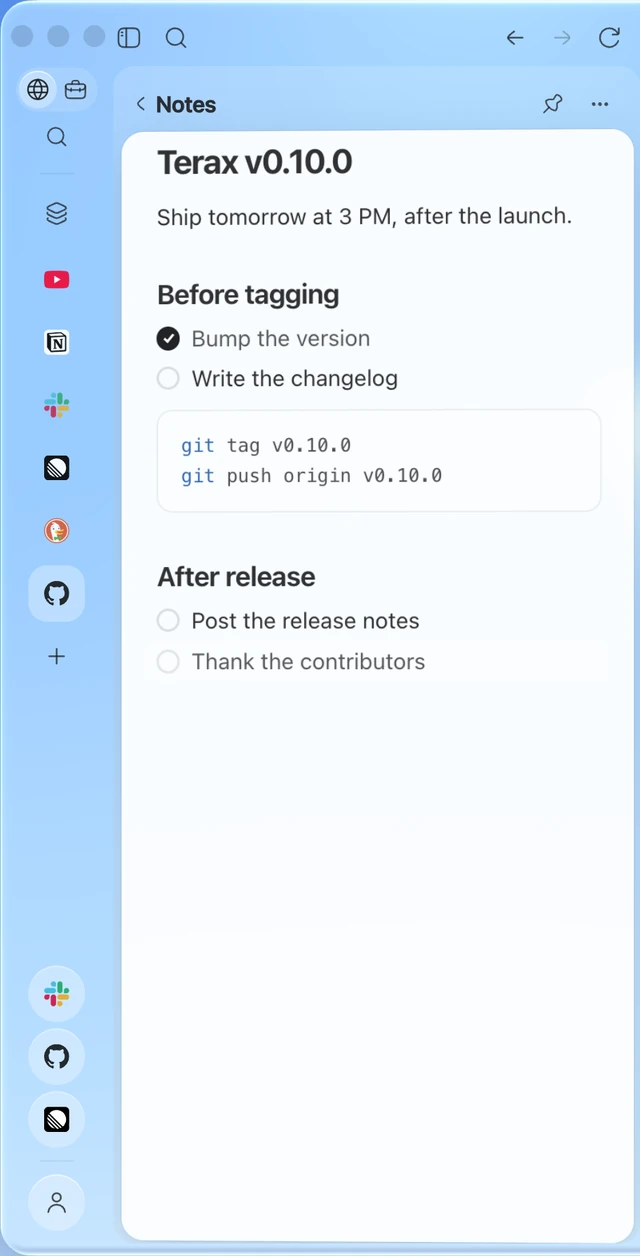
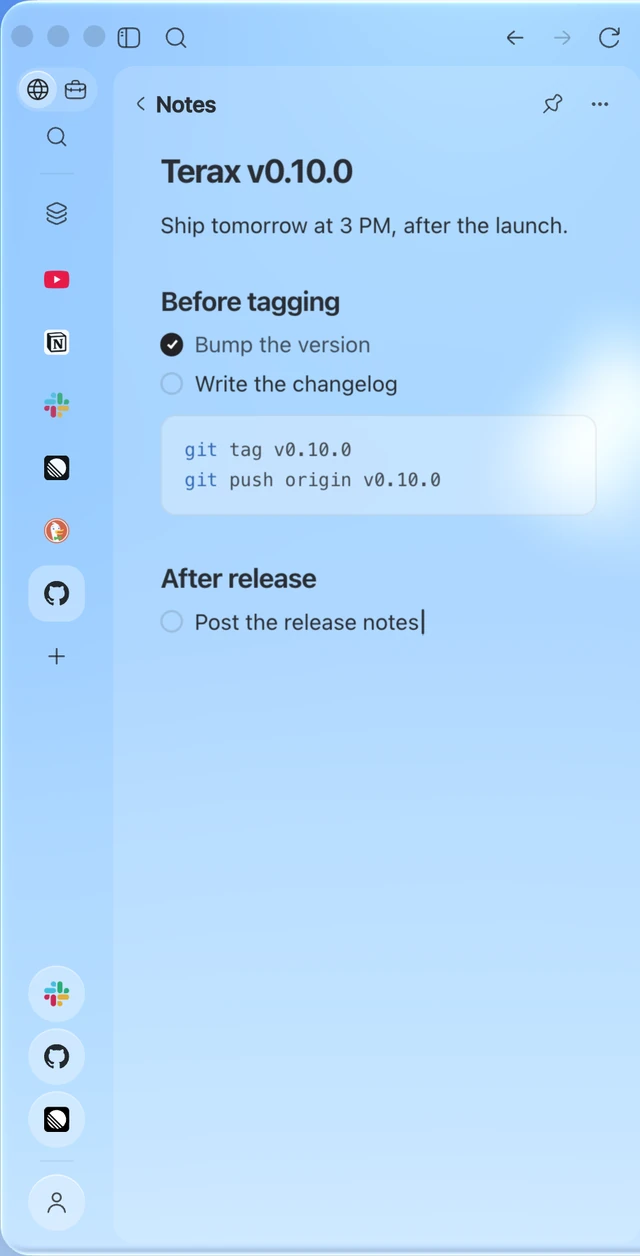
docs(readme): Notes at rest on the glass, and the X badge reads x.com

diff --git a/docs/readme/README.hi.md b/docs/readme/README.hi.md
@@ -10,7 +10,7 @@
     <img src="https://img.shields.io/badge/platform-macOS%20%7C%20Windows-lightgrey" alt="प्लैटफ़ॉर्म: macOS और Windows" />
     <a href="https://discord.gg/tyveTUyEp7"><img src="https://img.shields.io/badge/Discord-5865F2?logo=discord&logoColor=white" alt="Discord" /></a>
     <a href="https://www.youtube.com/@crynta"><img src="https://img.shields.io/badge/YouTube-FF0000?logo=youtube&logoColor=white" alt="YouTube" /></a>
-    <a href="https://x.com/CryntaDev"><img src="https://img.shields.io/badge/@CryntaDev-000000?logo=x&logoColor=white" alt="X: @CryntaDev" /></a>
+    <a href="https://x.com/CryntaDev"><img src="https://img.shields.io/badge/x.com-000000?logo=x&logoColor=white" alt="X: @CryntaDev" /></a>
   </p>
 
   <p>

diff --git a/docs/readme/README.ja.md b/docs/readme/README.ja.md
@@ -10,7 +10,7 @@
     <img src="https://img.shields.io/badge/platform-macOS%20%7C%20Windows-lightgrey" alt="対応プラットフォーム: macOS と Windows" />
     <a href="https://discord.gg/tyveTUyEp7"><img src="https://img.shields.io/badge/Discord-5865F2?logo=discord&logoColor=white" alt="Discord" /></a>
     <a href="https://www.youtube.com/@crynta"><img src="https://img.shields.io/badge/YouTube-FF0000?logo=youtube&logoColor=white" alt="YouTube" /></a>
-    <a href="https://x.com/CryntaDev"><img src="https://img.shields.io/badge/@CryntaDev-000000?logo=x&logoColor=white" alt="X: @CryntaDev" /></a>
+    <a href="https://x.com/CryntaDev"><img src="https://img.shields.io/badge/x.com-000000?logo=x&logoColor=white" alt="X: @CryntaDev" /></a>
   </p>
 
   <p>

diff --git a/docs/readme/README.ru.md b/docs/readme/README.ru.md
@@ -10,7 +10,7 @@
     <img src="https://img.shields.io/badge/platform-macOS%20%7C%20Windows-lightgrey" alt="Платформы: macOS и Windows" />
     <a href="https://discord.gg/tyveTUyEp7"><img src="https://img.shields.io/badge/Discord-5865F2?logo=discord&logoColor=white" alt="Discord" /></a>
     <a href="https://www.youtube.com/@crynta"><img src="https://img.shields.io/badge/YouTube-FF0000?logo=youtube&logoColor=white" alt="YouTube" /></a>
-    <a href="https://x.com/CryntaDev"><img src="https://img.shields.io/badge/@CryntaDev-000000?logo=x&logoColor=white" alt="X: @CryntaDev" /></a>
+    <a href="https://x.com/CryntaDev"><img src="https://img.shields.io/badge/x.com-000000?logo=x&logoColor=white" alt="X: @CryntaDev" /></a>
   </p>
 
   <p>

diff --git a/docs/readme/README.ko.md b/docs/readme/README.ko.md
@@ -10,7 +10,7 @@
     <img src="https://img.shields.io/badge/platform-macOS%20%7C%20Windows-lightgrey" alt="지원 플랫폼: macOS 및 Windows" />
     <a href="https://discord.gg/tyveTUyEp7"><img src="https://img.shields.io/badge/Discord-5865F2?logo=discord&logoColor=white" alt="Discord" /></a>
     <a href="https://www.youtube.com/@crynta"><img src="https://img.shields.io/badge/YouTube-FF0000?logo=youtube&logoColor=white" alt="YouTube" /></a>
-    <a href="https://x.com/CryntaDev"><img src="https://img.shields.io/badge/@CryntaDev-000000?logo=x&logoColor=white" alt="X: @CryntaDev" /></a>
+    <a href="https://x.com/CryntaDev"><img src="https://img.shields.io/badge/x.com-000000?logo=x&logoColor=white" alt="X: @CryntaDev" /></a>
   </p>
 
   <p>

diff --git a/docs/readme/README.zh-CN.md b/docs/readme/README.zh-CN.md
@@ -10,7 +10,7 @@
     <img src="https://img.shields.io/badge/platform-macOS%20%7C%20Windows-lightgrey" alt="支持平台：macOS 和 Windows" />
     <a href="https://discord.gg/tyveTUyEp7"><img src="https://img.shields.io/badge/Discord-5865F2?logo=discord&logoColor=white" alt="Discord" /></a>
     <a href="https://www.youtube.com/@crynta"><img src="https://img.shields.io/badge/YouTube-FF0000?logo=youtube&logoColor=white" alt="YouTube" /></a>
-    <a href="https://x.com/CryntaDev"><img src="https://img.shields.io/badge/@CryntaDev-000000?logo=x&logoColor=white" alt="X: @CryntaDev" /></a>
+    <a href="https://x.com/CryntaDev"><img src="https://img.shields.io/badge/x.com-000000?logo=x&logoColor=white" alt="X: @CryntaDev" /></a>
   </p>
 
   <p>

diff --git a/docs/readme/README.de.md b/docs/readme/README.de.md
@@ -10,7 +10,7 @@
     <img src="https://img.shields.io/badge/platform-macOS%20%7C%20Windows-lightgrey" alt="Plattformen: macOS und Windows" />
     <a href="https://discord.gg/tyveTUyEp7"><img src="https://img.shields.io/badge/Discord-5865F2?logo=discord&logoColor=white" alt="Discord" /></a>
     <a href="https://www.youtube.com/@crynta"><img src="https://img.shields.io/badge/YouTube-FF0000?logo=youtube&logoColor=white" alt="YouTube" /></a>
-    <a href="https://x.com/CryntaDev"><img src="https://img.shields.io/badge/@CryntaDev-000000?logo=x&logoColor=white" alt="X: @CryntaDev" /></a>
+    <a href="https://x.com/CryntaDev"><img src="https://img.shields.io/badge/x.com-000000?logo=x&logoColor=white" alt="X: @CryntaDev" /></a>
   </p>
 
   <p>

diff --git a/docs/readme/README.fr.md b/docs/readme/README.fr.md
@@ -10,7 +10,7 @@
     <img src="https://img.shields.io/badge/platform-macOS%20%7C%20Windows-lightgrey" alt="Plateformes : macOS et Windows" />
     <a href="https://discord.gg/tyveTUyEp7"><img src="https://img.shields.io/badge/Discord-5865F2?logo=discord&logoColor=white" alt="Discord" /></a>
     <a href="https://www.youtube.com/@crynta"><img src="https://img.shields.io/badge/YouTube-FF0000?logo=youtube&logoColor=white" alt="YouTube" /></a>
-    <a href="https://x.com/CryntaDev"><img src="https://img.shields.io/badge/@CryntaDev-000000?logo=x&logoColor=white" alt="X: @CryntaDev" /></a>
+    <a href="https://x.com/CryntaDev"><img src="https://img.shields.io/badge/x.com-000000?logo=x&logoColor=white" alt="X: @CryntaDev" /></a>
   </p>
 
   <p>

diff --git a/README.md b/README.md
@@ -10,7 +10,7 @@
     <img src="https://img.shields.io/badge/platform-macOS%20%7C%20Windows-lightgrey" alt="Platforms: macOS and Windows" />
     <a href="https://discord.gg/tyveTUyEp7"><img src="https://img.shields.io/badge/Discord-5865F2?logo=discord&logoColor=white" alt="Discord" /></a>
     <a href="https://www.youtube.com/@crynta"><img src="https://img.shields.io/badge/YouTube-FF0000?logo=youtube&logoColor=white" alt="YouTube" /></a>
-    <a href="https://x.com/CryntaDev"><img src="https://img.shields.io/badge/@CryntaDev-000000?logo=x&logoColor=white" alt="X: @CryntaDev" /></a>
+    <a href="https://x.com/CryntaDev"><img src="https://img.shields.io/badge/x.com-000000?logo=x&logoColor=white" alt="X: @CryntaDev" /></a>
   </p>
 
   <p>

diff --git a/docs/readme/README.es.md b/docs/readme/README.es.md
@@ -10,7 +10,7 @@
     <img src="https://img.shields.io/badge/platform-macOS%20%7C%20Windows-lightgrey" alt="Plataformas: macOS y Windows" />
     <a href="https://discord.gg/tyveTUyEp7"><img src="https://img.shields.io/badge/Discord-5865F2?logo=discord&logoColor=white" alt="Discord" /></a>
     <a href="https://www.youtube.com/@crynta"><img src="https://img.shields.io/badge/YouTube-FF0000?logo=youtube&logoColor=white" alt="YouTube" /></a>
-    <a href="https://x.com/CryntaDev"><img src="https://img.shields.io/badge/@CryntaDev-000000?logo=x&logoColor=white" alt="X: @CryntaDev" /></a>
+    <a href="https://x.com/CryntaDev"><img src="https://img.shields.io/badge/x.com-000000?logo=x&logoColor=white" alt="X: @CryntaDev" /></a>
   </p>
 
   <p>

diff --git a/docs/readme/README.pt-BR.md b/docs/readme/README.pt-BR.md
@@ -10,7 +10,7 @@
     <img src="https://img.shields.io/badge/platform-macOS%20%7C%20Windows-lightgrey" alt="Plataformas: macOS e Windows" />
     <a href="https://discord.gg/tyveTUyEp7"><img src="https://img.shields.io/badge/Discord-5865F2?logo=discord&logoColor=white" alt="Discord" /></a>
     <a href="https://www.youtube.com/@crynta"><img src="https://img.shields.io/badge/YouTube-FF0000?logo=youtube&logoColor=white" alt="YouTube" /></a>
-    <a href="https://x.com/CryntaDev"><img src="https://img.shields.io/badge/@CryntaDev-000000?logo=x&logoColor=white" alt="X: @CryntaDev" /></a>
+    <a href="https://x.com/CryntaDev"><img src="https://img.shields.io/badge/x.com-000000?logo=x&logoColor=white" alt="X: @CryntaDev" /></a>
   </p>
 
   <p>

diff --git a/docs/readme/README.id.md b/docs/readme/README.id.md
@@ -10,7 +10,7 @@
     <img src="https://img.shields.io/badge/platform-macOS%20%7C%20Windows-lightgrey" alt="Platform: macOS dan Windows" />
     <a href="https://discord.gg/tyveTUyEp7"><img src="https://img.shields.io/badge/Discord-5865F2?logo=discord&logoColor=white" alt="Discord" /></a>
     <a href="https://www.youtube.com/@crynta"><img src="https://img.shields.io/badge/YouTube-FF0000?logo=youtube&logoColor=white" alt="YouTube" /></a>
-    <a href="https://x.com/CryntaDev"><img src="https://img.shields.io/badge/@CryntaDev-000000?logo=x&logoColor=white" alt="X: @CryntaDev" /></a>
+    <a href="https://x.com/CryntaDev"><img src="https://img.shields.io/badge/x.com-000000?logo=x&logoColor=white" alt="X: @CryntaDev" /></a>
   </p>
 
   <p>

diff --git a/docs/readme/README.pl.md b/docs/readme/README.pl.md
@@ -10,7 +10,7 @@
     <img src="https://img.shields.io/badge/platform-macOS%20%7C%20Windows-lightgrey" alt="Platformy: macOS i Windows" />
     <a href="https://discord.gg/tyveTUyEp7"><img src="https://img.shields.io/badge/Discord-5865F2?logo=discord&logoColor=white" alt="Discord" /></a>
     <a href="https://www.youtube.com/@crynta"><img src="https://img.shields.io/badge/YouTube-FF0000?logo=youtube&logoColor=white" alt="YouTube" /></a>
-    <a href="https://x.com/CryntaDev"><img src="https://img.shields.io/badge/@CryntaDev-000000?logo=x&logoColor=white" alt="X: @CryntaDev" /></a>
+    <a href="https://x.com/CryntaDev"><img src="https://img.shields.io/badge/x.com-000000?logo=x&logoColor=white" alt="X: @CryntaDev" /></a>
   </p>
 
   <p>
